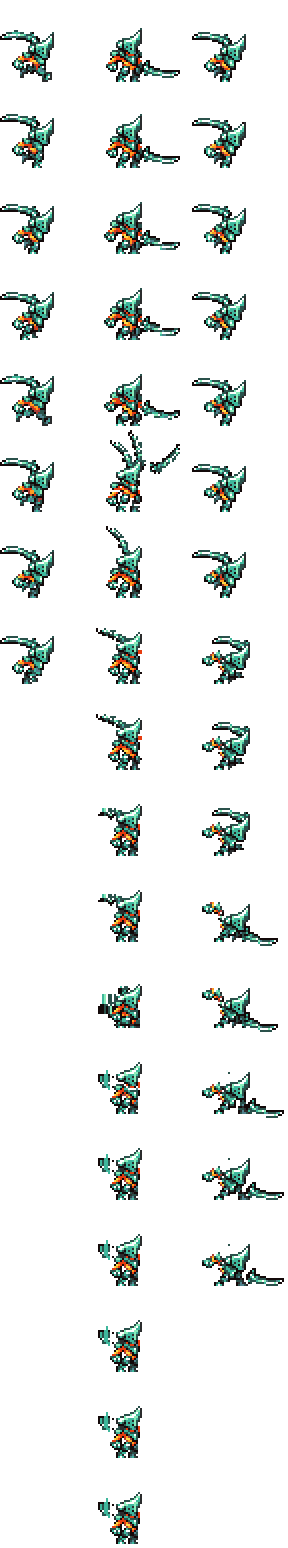
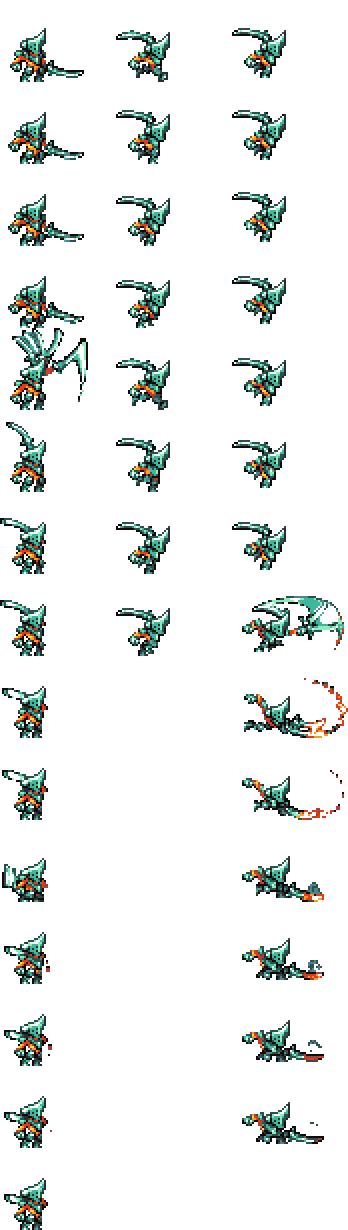
Grunt construct WIP

diff --git a/Content/NPCs/Vitric/Gauntlet/GruntConstruct.cs b/Content/NPCs/Vitric/Gauntlet/GruntConstruct.cs
@@ -33,10 +33,29 @@ namespace StarlightRiver.Content.NPCs.Vitric.Gauntlet
 
         private int xFrame = 0;
 
+        private int yFrame = 0;
+
+        private int frameCounter = 0;
+
+        private int xPosToBe = 0;
+
+        private bool attacking = false;
+        private int attackCooldown = 0;
+
+        private bool idling = false;
+
+        private bool doingCombo = false;
+        private bool comboJumped = false;
+        private bool comboJumpedTwice = false;
+        private NPC partner = default;
+
+        private int comboDirection = 0;
+
+        private float enemyRotation;
         public override void SetStaticDefaults()
         {
             DisplayName.SetDefault("Grunt Construct");
-            Main.npcFrameCount[NPC.type] = 18;
+            Main.npcFrameCount[NPC.type] = 15;
         }
 
         public override void SetDefaults()
@@ -48,7 +67,6 @@ namespace StarlightRiver.Content.NPCs.Vitric.Gauntlet
             NPC.lifeMax = 250;
             NPC.value = 10f;
             NPC.knockBackResist = 0.6f;
-            NPC.aiStyle = 3;
             NPC.HitSound = SoundID.Item27 with
             {
                 Pitch = -0.3f
@@ -58,7 +76,277 @@ namespace StarlightRiver.Content.NPCs.Vitric.Gauntlet
 
         public override void AI()
         {
-            
+            NPC.TargetClosest(false);
+            Collision.StepUp(ref NPC.position, ref NPC.velocity, NPC.width, NPC.height, ref NPC.stepSpeed, ref NPC.gfxOffY);
+            attackCooldown--;
+
+            enemyRotation *= 0.9f;
+            if (Math.Abs(enemyRotation) < 0.4f)
+                enemyRotation = 0;
+            NPC.rotation = enemyRotation;
+
+            var tempPartner = Main.npc.Where(x =>
+            x.active &&
+            x.type == ModContent.NPCType<ShieldConstruct>() &&
+            (x.ModNPC as ShieldConstruct).guarding &&
+            (x.ModNPC as ShieldConstruct).bounceCooldown <= 0 &&
+            x.spriteDirection == NPC.spriteDirection &&
+            NPC.Distance(x.Center) > 50 &&
+            NPC.Distance(x.Center) < 600 &&
+            Math.Sign(x.Center.X - NPC.Center.X) == NPC.spriteDirection).OrderBy(x => NPC.Distance(x.Center)).FirstOrDefault();
+
+            if (tempPartner != default && !doingCombo)
+            {
+                doingCombo = true;
+                partner = tempPartner;
+                (partner.ModNPC as ShieldConstruct).bounceCooldown = 300;
+            }
+
+            if (doingCombo)
+            {
+                if (partner.active && (partner.ModNPC as ShieldConstruct).guarding)
+                {
+
+                    if (!comboJumpedTwice)
+                    {
+                        if (xFrame != 1)
+                        {
+                            frameCounter = 0;
+                            yFrame = 0;
+                            xFrame = 1;
+                        }
+                        frameCounter++;
+                        if (frameCounter > 3)
+                        {
+                            frameCounter = 0;
+                            yFrame++;
+                            yFrame %= 8;
+                        }
+                    }
+                    else
+                    {
+                        if (xFrame != 2)
+                        {
+                            frameCounter = 0;
+                            yFrame = 3;
+                            xFrame = 2;
+                        }
+                        if (NPC.velocity.Y > 0)
+                        {
+                            frameCounter++;
+                            if (frameCounter > 3)
+                            {
+                                frameCounter = 0;
+                                if (yFrame < 13)
+                                    yFrame++;
+                            }
+                        }
+                    }
+
+
+
+                    if (Math.Abs(NPC.Center.X - partner.Center.X) < 110 && !comboJumped)
+                    {
+                        NPC.velocity = ArcVelocityHelper.GetArcVel(NPC.Bottom, partner.Top + new Vector2(partner.spriteDirection * 15, 0), 0.1f, 120, 350);
+                        comboJumped = true;
+                    }
+                    if (comboJumped)
+                    {
+
+                        NPC.velocity.X *= 1.05f;
+                        if (NPC.collideY && NPC.velocity.Y == 0)
+                        {
+                            comboJumped = false;
+                            comboJumpedTwice = false;
+                            doingCombo = false;
+                        }
+                        else
+                        {
+                            if (NPC.velocity.Y > 0 && NPC.Center.Y > (partner.Top.Y + 5) && !comboJumpedTwice)
+                            {
+                                comboDirection = NPC.spriteDirection;
+                                NPC.velocity = ArcVelocityHelper.GetArcVel(NPC.Center, target.Center + new Vector2(NPC.spriteDirection * 15, 0), 0.2f, 120, 250);
+                                NPC.velocity.X *= 2.5f;
+                                enemyRotation = -6.28f * NPC.spriteDirection * 0.95f;
+                                comboJumpedTwice = true;
+
+                                Projectile ring = Projectile.NewProjectileDirect(NPC.GetSource_FromAI(), NPC.Bottom, NPC.Bottom.DirectionTo(partner.Center), ModContent.ProjectileType<Content.Items.Vitric.IgnitionGauntletsImpactRing>(), 0, 0, target.whoAmI, Main.rand.Next(25, 35), NPC.Center.DirectionTo(partner.Center).ToRotation());
+                                ring.extraUpdates = 0;
+                            }
+                        }
+                    }
+                    if (comboJumpedTwice)
+                    {
+                        NPC.spriteDirection = comboDirection;
+                    }
+                    else
+                    {
+                        NPC.velocity.X += NPC.spriteDirection * 0.5f;
+                        NPC.velocity.X = MathHelper.Clamp(NPC.velocity.X, -5, 5);
+                    }
+                }
+                else
+                {
+                    comboJumped = false;
+                    comboJumpedTwice = false;
+                    doingCombo = false;
+                }
+                return;
+            }
+
+            if (Math.Abs(target.Center.X - NPC.Center.X) < 400 && !idling)
+            {
+                if ((Math.Abs(target.Center.X - NPC.Center.X) < 100 || attacking))
+                {
+                    if (attackCooldown < 0)
+                    {
+                        attacking = true;
+                        AttackBehavior();
+                        return;
+                    }
+                }
+
+                NPC closestPelter = Main.npc.Where(x =>
+                x.active &&
+                x.type == ModContent.NPCType<PelterConstruct>() &&
+                NPC.Distance(x.Center) < 600).OrderBy(x => NPC.Distance(x.Center)).FirstOrDefault();
+
+
+                if (closestPelter != default && !attacking)
+                {
+
+                    xPosToBe = (int)MathHelper.Lerp(closestPelter.Center.X, target.Center.X, 0.5f);
+                    if (Math.Abs(xPosToBe - NPC.Center.X) < 25 || idling)
+                    {
+                        idling = true;
+                        IdleBehavior();
+                        return;
+                    }
+                }
+                else
+                {
+                    xPosToBe = (int)target.Center.X;
+                }
+
+                float xDir = xPosToBe - NPC.Center.X;
+                int xSign = Math.Sign(xDir);
+
+                if (xFrame != 1)
+                {
+                    frameCounter = 0;
+                    yFrame = 0;
+                    xFrame = 1;
+                }
+                frameCounter++;
+                if (frameCounter > 3)
+                {
+                    frameCounter = 0;
+                    yFrame++;
+                    yFrame %= 8;
+                }
+
+                NPC.velocity.X += 0.3f * xSign;
+                NPC.velocity.X = MathHelper.Clamp(NPC.velocity.X, -5, 5);
+                NPC.spriteDirection = xSign;
+
+            }
+            else
+                IdleBehavior();
+        }
+
+        public override bool PreDraw(SpriteBatch spriteBatch, Vector2 screenPos, Color drawColor)
+        {
+            Texture2D mainTex = ModContent.Request<Texture2D>(Texture).Value;
+            Texture2D glowTex = ModContent.Request<Texture2D>(Texture + "_Glow").Value;
+
+            int frameWidth = mainTex.Width / XFRAMES;
+            int frameHeight = mainTex.Height / Main.npcFrameCount[NPC.type];
+            Rectangle frameBox = new Rectangle(xFrame * frameWidth, (yFrame * frameHeight + 2), frameWidth, frameHeight);
+
+            SpriteEffects effects = SpriteEffects.None;
+            Vector2 origin = new Vector2(frameWidth / 4, (frameHeight * 0.75f) - 8);
+
+            if (xFrame == 2)
+                origin.Y -= 2;
+            if (xFrame == 0)
+                origin.Y += 2;
+            if (NPC.spriteDirection != 1)
+            {
+                effects = SpriteEffects.FlipHorizontally;
+                origin.X = frameWidth - origin.X;
+            }
+            Vector2 slopeOffset = new Vector2(0, NPC.gfxOffY);
+            Main.spriteBatch.Draw(mainTex, slopeOffset + NPC.Center - screenPos, frameBox, drawColor, NPC.rotation, origin, NPC.scale, effects, 0f);
+            Main.spriteBatch.Draw(glowTex, slopeOffset + NPC.Center - screenPos, frameBox, Color.White, NPC.rotation, origin, NPC.scale, effects, 0f);
+            return false;
+        }
+
+        public override bool CanHitPlayer(Player target, ref int cooldownSlot)
+        {
+            if (xFrame == 2 && yFrame >= 6)
+                return base.CanHitPlayer(target, ref cooldownSlot);
+            return false;
+        }
+
+        private void IdleBehavior()
+        {
+            NPC.velocity.X *= 0.9f;
+
+            if (xFrame != 0)
+            {
+                frameCounter = 0;
+                yFrame = 0;
+                xFrame = 0;
+            }
+
+            frameCounter++;
+            if (frameCounter > 3)
+            {
+                frameCounter = 0;
+                if (yFrame < 14)
+                    yFrame++;
+                else
+                    idling = false;
+            }
+        }
+
+        private void AttackBehavior()
+        {
+            if (xFrame != 2)
+            {
+                NPC.spriteDirection = Math.Sign(target.Center.X - NPC.Center.X);
+                frameCounter = 0;
+                yFrame = 0;
+                xFrame = 2;
+            }
+            if (yFrame >= 6)
+                NPC.spriteDirection = Math.Sign(NPC.velocity.X);
+
+            frameCounter++;
+
+            if (yFrame < 6)
+                NPC.velocity.X *= 0.9f;
+            else
+                NPC.velocity.X *= 0.96f;
+            if (frameCounter > 3)
+            {
+                frameCounter = 0;
+                if (yFrame < 13)
+                    yFrame++;
+                else
+                {
+                    attackCooldown = 80;
+                    attacking = false;
+                    yFrame = 0;
+                    xFrame = 1;
+                }
+
+                if (yFrame == 6)
+                {
+                    NPC.velocity.X = NPC.spriteDirection * 17;
+                    NPC.velocity.Y = -5;
+                }
+            }
         }
     }
 }
